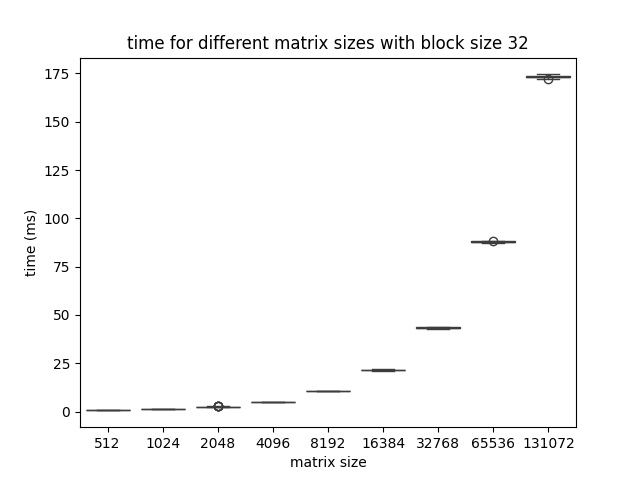
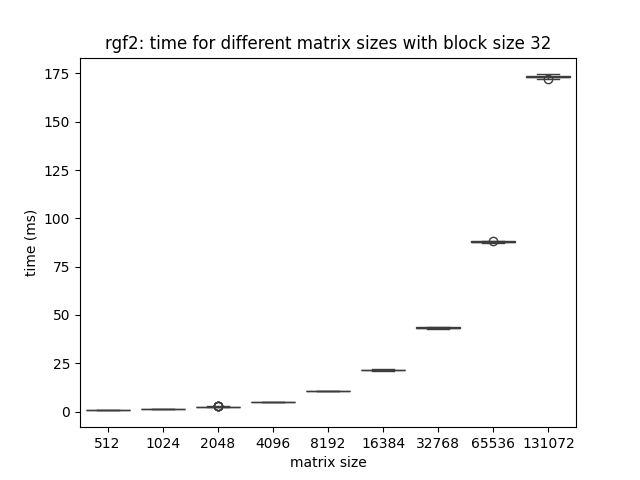
modify plot_rgf and boxplot

Changed region(s): [[0.1562, 0.0625, 0.875, 0.125]]

diff --git a/plot_rgf.py b/plot_rgf.py
@@ -286,7 +286,7 @@ def boxplot_performance():
             # Add labels and title
             plt.xlabel('matrix size')
             plt.ylabel('time (ms)')
-            plt.title(f"time for different matrix sizes with block size {block_size}")
+            plt.title(f"{algo_names[i]}: time for different matrix sizes with block size {block_size}")
             plt.savefig(f"./figures/boxplot_time_block{block_size}_{algo_names[i]}.png")
             plt.clf()
 
